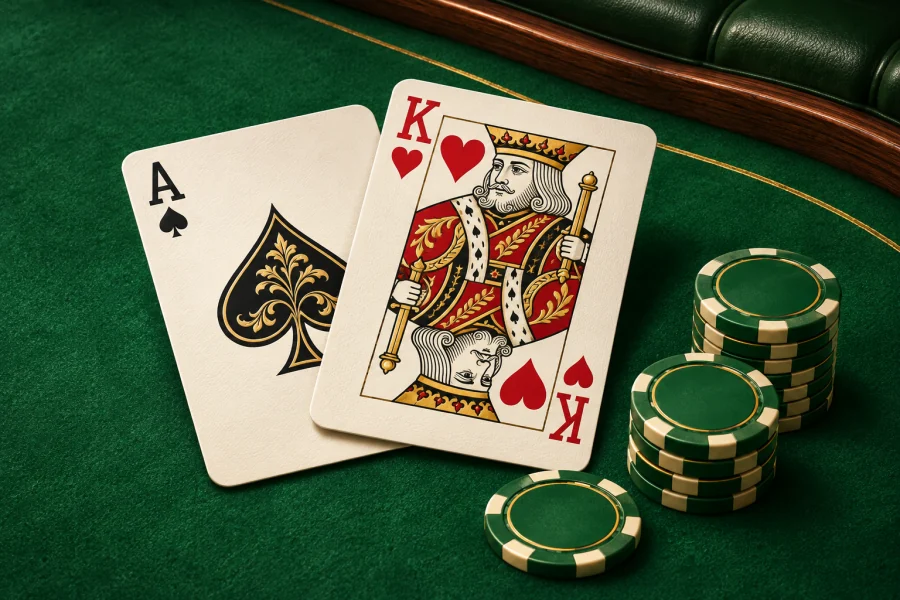
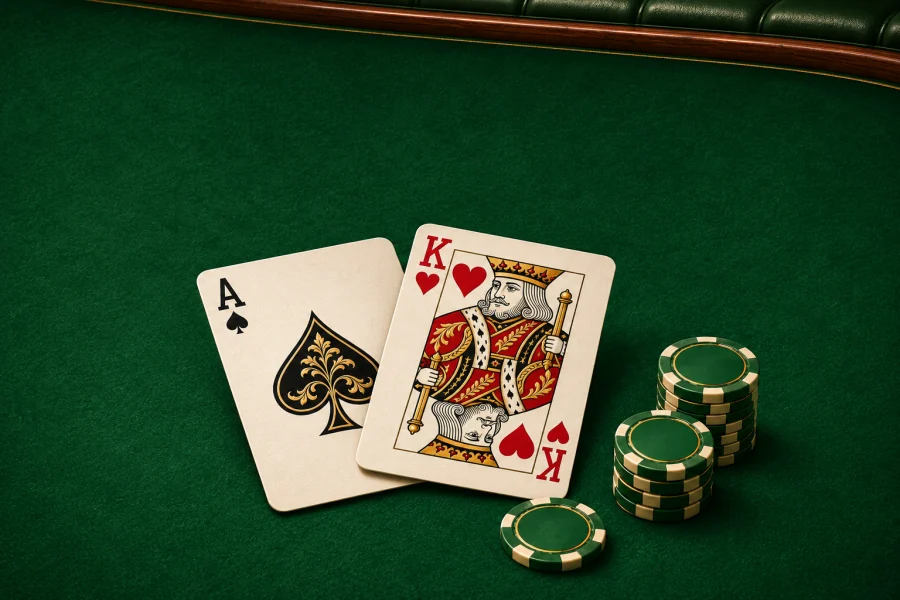
Keep Blackjack card ranks clear of the gallery badge

diff --git a/src/assets/blackjack-thumbnail.md b/src/assets/blackjack-thumbnail.md
@@ -19,3 +19,14 @@ Color palette: dominant felt #0c6a45, brighter felt #18905f, deep felt #07442e a
 Style/medium: polished high-end photorealistic 3D product photography, exquisite tactile cardstock, fine felt and realistic chip materials, refined shadows and warm soft studio spotlight. Restrained, premium, believable.
 Constraints: no people, no hands, no floating objects, no dice, no roulette, no banknotes, no game title, no slogans, no logos, no watermarks. The only lettering is standard playing card ranks A and K. Do not add any other cards.
 ```
+
+## Composition refinement
+
+The final image was edited with the built-in image tool after checking the gallery at its smallest desktop card width. This keeps the existing badge clear of both card ranks.
+
+```text
+Use case: precise-object-edit.
+Edit target: the provided Blackjack thumbnail.
+Change ONLY the composition spacing: pull the camera back a little and move the complete two-card and chip arrangement into the lower two-thirds of the image. The top 32 percent of the 1536x1024 canvas must be quiet uninterrupted green felt with the subtle walnut/leather rail restricted to the extreme upper edge. Both top card rank corners A and K must sit BELOW y=360 pixels, so a website badge across the upper-left will not cover them. All cards and chips must remain fully inside the canvas with comfortable bottom and side margins. Cards should still be prominent, large and clear in the lower two-thirds.
+Preserve precisely the luxurious emerald-green felt, warm gold and walnut palette, realistic tactile photography, the ace of spades and king of hearts artwork, exactly two cards, two green-and-gold chip stacks and one loose chip, soft warm lighting. Do not add any objects, words, title, badge or logos. Landscape 3:2, 1536x1024.
+```
